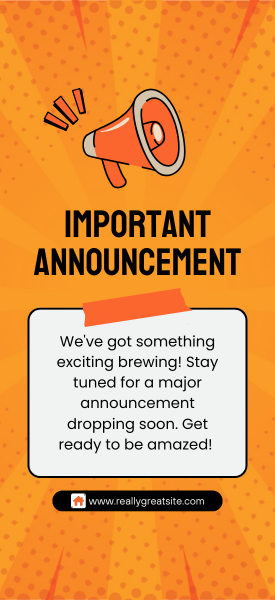
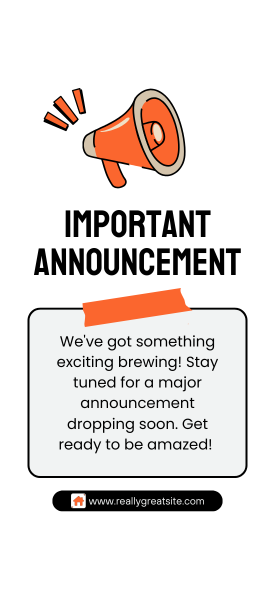
updated

diff --git a/frontend-main/src/views/home/GridComp.vue b/frontend-main/src/views/home/GridComp.vue
@@ -23,11 +23,11 @@
 </template>
 
 <script setup>
-import image1 from '@/assets/icons/a.png'
-import image2 from '@/assets/icons/b.png'
-import image3 from '@/assets/icons/c.png'
-import image4 from '@/assets/icons/d.png'
-import image5 from '@/assets/icons/e.png'
+import image1 from '@/assets/icons/1.png'
+import image2 from '@/assets/icons/2.png'
+import image3 from '@/assets/icons/3.png'
+import image4 from '@/assets/icons/4.png'
+import image5 from '@/assets/icons/5.png'
 import { ref, inject } from 'vue';
 
 const { formatPriceToUSD } = inject('utils');

diff --git a/frontend-main/src/assets/base.css b/frontend-main/src/assets/base.css
@@ -100,11 +100,12 @@
   --primary-a: var(--orange-a);  
   --primary-b: var(--blue-a);
 
-  --background-a: #ffffff;
+  --background-a: #faf9f5;
   --background-b: var(--p-surface-100);
-  --background-c: var(--p-surface-50);
 
-  --text-a: #222;
+  --background-c: red;
+
+  --text-a: #3d3929;
   --text-b: #565959;
   --text-w: #ffffff;
 

diff --git a/frontend-main/src/views/home/AdComp.vue b/frontend-main/src/views/home/AdComp.vue
@@ -10,7 +10,6 @@
 
 <style lang="css" scoped>
 .card {
-    background: var(--primary-a); 
     box-sizing: border-box;
     border-radius: 12px;
     overflow: hidden;

diff --git a/frontend-main/src/assets/main.css b/frontend-main/src/assets/main.css
@@ -1,6 +1,7 @@
 @import './base.css';
 
 #app {
+  background: var(--background-a); 
   font-weight: normal;
   width: 100%;
 }
